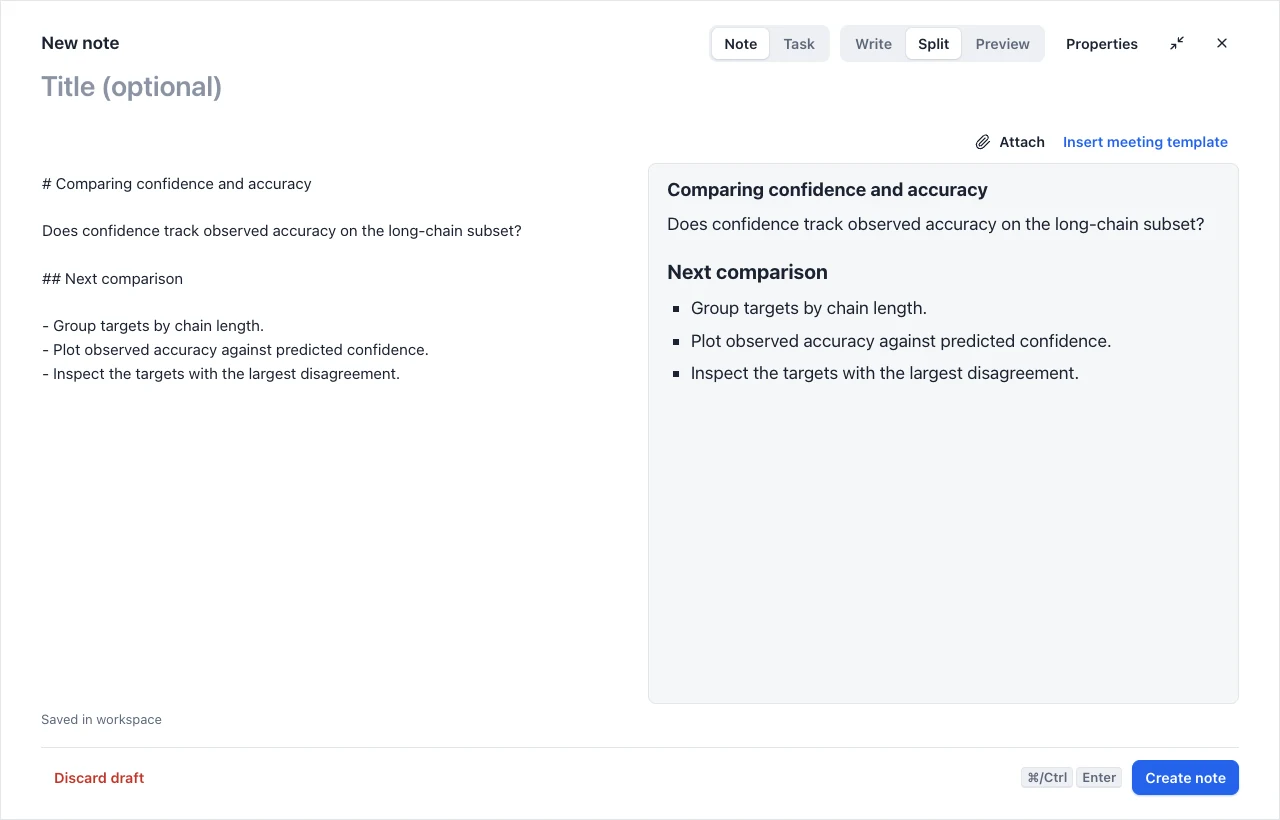
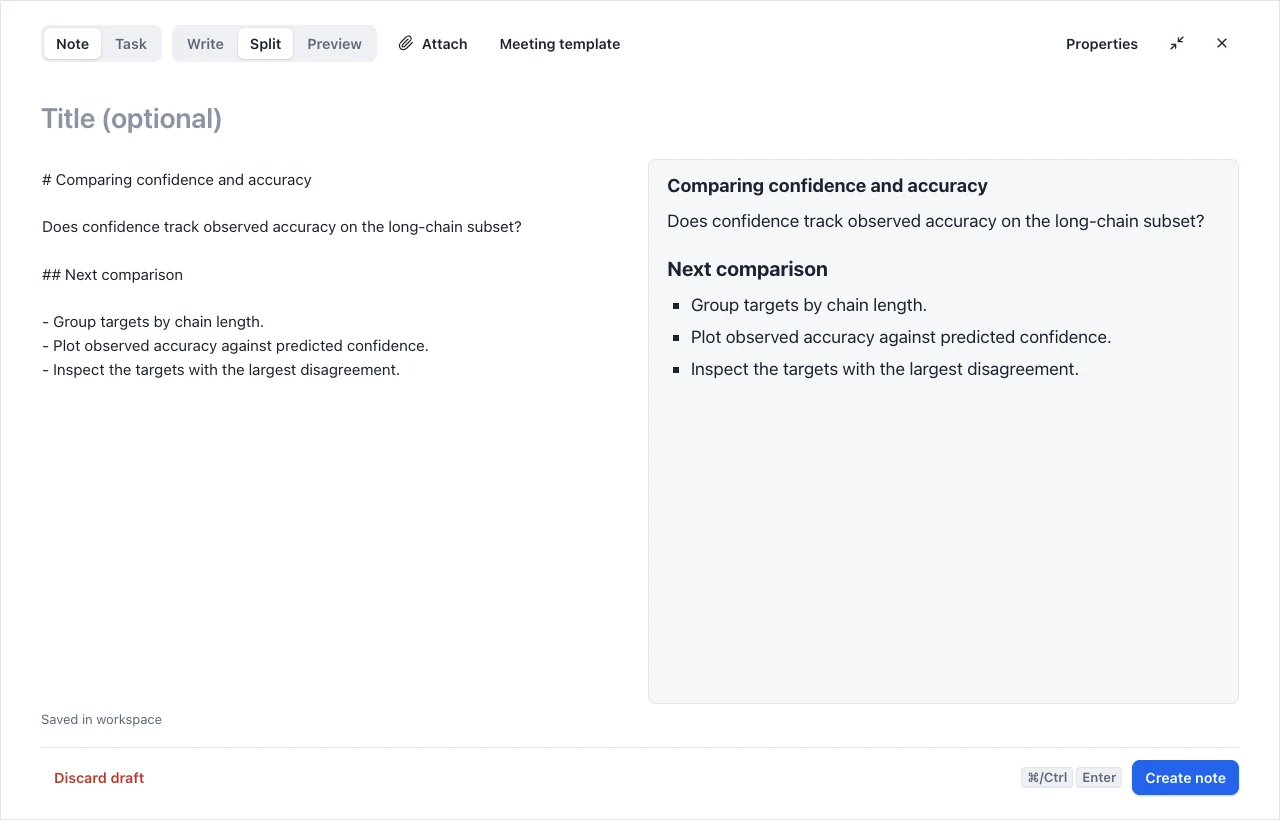
Give Zen mode one top bar and a full-width title
In the card editor and the capture composer, Zen now shows a single bar
across the screen: view toggle, Attach (and the meeting template for
notes) on the left, Properties, exit and close on the right. The title
sits below it across the whole writing column instead of sharing a row
with the card actions, and the reference line and the extra Attach row
are gone. Refresh the Zen documentation screenshot.

diff --git a/tools/web/templates/drawer.html b/tools/web/templates/drawer.html
@@ -19,6 +19,21 @@
                   <template x-if="!propertyEditor.form"><span x-text="selected?.title"></span></template>
                 </h2>
               </div>
+              <!-- Zen editing tools sit in the top bar beside the card actions; the title runs full width below. -->
+              <div class="mt-zen-bar-tools" x-show="contentEditor.open && contentEditor.zen">
+                <div class="mt-segmented mt-zen-view-toggle" role="group" aria-label="Zen editor view">
+                  <button class="mt-segment" type="button" :aria-pressed="contentEditor.zenView === 'write'" @click="contentEditor.setZenView(contentContext(), 'write')">Write</button>
+                  <button class="mt-segment" type="button" :aria-pressed="contentEditor.zenView === 'split'" @click="contentEditor.setZenView(contentContext(), 'split')">Split</button>
+                  <button class="mt-segment" type="button" :aria-pressed="contentEditor.zenView === 'preview'" @click="contentEditor.setZenView(contentContext(), 'preview')">Preview</button>
+                </div>
+                <button type="button" class="mt-button mt-button-quiet mt-button-compact mt-zen-attach"
+                        aria-label="Attach file" title="Attach file or paste image"
+                        :disabled="draftBusy || contentEditor.saving || attachmentUploading"
+                        @click="$refs.contentAttachInput && $refs.contentAttachInput.click()">
+                  <svg class="mt-icon" viewBox="0 0 24 24" aria-hidden="true" focusable="false"><path d="m21.44 11.05-9.19 9.19a6 6 0 0 1-8.49-8.49l9.19-9.19a4 4 0 0 1 5.66 5.66l-9.2 9.19a2 2 0 0 1-2.83-2.83l8.49-8.48"/></svg>
+                  <span>Attach</span>
+                </button>
+              </div>
               <div class="mt-detail-navigation">
                 <button type="button" class="mt-button mt-button-quiet mt-button-compact mt-zen-meta-toggle"
                         x-show="contentEditor.zen && propertyEditor.form"
@@ -46,6 +61,12 @@
                     <button type="button" class="mt-button mt-button-compact" @click="hideSelected()" :disabled="busy || draftBusy || !!contentEditor.open" :aria-busy="busy" x-text="selected?.hidden ? 'Show in lists' : 'Hide from lists'"></button>
                   </div>
                 </details>
+                <button type="button" class="mt-button mt-button-quiet mt-button-icon mt-zen-exit"
+                        x-show="contentEditor.open && contentEditor.zen"
+                        aria-label="Exit Zen mode" title="Exit Zen mode (Esc)"
+                        @click="contentEditor.toggleZen(contentContext())">
+                  <svg class="mt-icon" viewBox="0 0 24 24" aria-hidden="true" focusable="false"><path d="M4 14h6v6M20 10h-6V4M10 14l-7 7M14 10l7-7"/></svg>
+                </button>
                 <button class="mt-button mt-button-quiet mt-button-icon mt-close" type="button" aria-label="Close preview" @click="clearSelection()"><svg class="mt-icon" viewBox="0 0 24 24" aria-hidden="true" focusable="false"><path d="m6 6 12 12M6 18 18 6"/></svg></button>
               </div>
             </header>
@@ -98,11 +119,6 @@
                       <div class="mt-segmented" role="group" aria-label="Content editor mode" x-show="!contentEditor.zen">
                         <button class="mt-segment" type="button" :aria-pressed="contentEditor.tab === 'write'" @click="contentEditor.tab = 'write'">Write</button>
                         <button class="mt-segment" type="button" :aria-pressed="contentEditor.tab === 'preview'" @click="contentEditor.tab = 'preview'">Preview</button>
-                      </div>
-                      <div class="mt-segmented mt-zen-view-toggle" role="group" aria-label="Zen editor view" x-show="contentEditor.zen">
-                        <button class="mt-segment" type="button" :aria-pressed="contentEditor.zenView === 'write'" @click="contentEditor.setZenView(contentContext(), 'write')">Write</button>
-                        <button class="mt-segment" type="button" :aria-pressed="contentEditor.zenView === 'split'" @click="contentEditor.setZenView(contentContext(), 'split')">Split</button>
-                        <button class="mt-segment" type="button" :aria-pressed="contentEditor.zenView === 'preview'" @click="contentEditor.setZenView(contentContext(), 'preview')">Preview</button>
                       </div>
                       <div class="mt-editor-toolbar-actions">
                         <input type="file" multiple class="mt-attach-input" x-ref="contentAttachInput"

diff --git a/tools/web/styles/detail.css b/tools/web/styles/detail.css
@@ -803,13 +803,29 @@ textarea.mt-field.is-drag-over {
     max(clamp(16px, 4vw, 40px), env(safe-area-inset-left, 0px));
   overflow: hidden;
 }
+/* Zen header: one bar across the screen (editing tools left, card actions right),
+   then the title as the document heading across the full writing column. */
 .mt-detail.is-zen .mt-detail-header {
   position: static;
-  margin: 0 auto;
-  padding: 0 0 12px;
-  width: min(72ch, 100%);
+  flex-wrap: wrap;
+  align-items: center;
+  gap: 8px 12px;
+  width: 100%;
+  margin: 0;
+  padding: 0;
 }
-.mt-detail.is-zen:has(.mt-zen-workspace.is-split) .mt-detail-header,
+.mt-detail.is-zen .mt-zen-bar-tools { order: 1; display: flex; flex-wrap: wrap; align-items: center; gap: 6px; }
+.mt-detail.is-zen .mt-detail-navigation { order: 2; margin-inline-start: auto; }
+.mt-detail.is-zen .mt-detail-heading {
+  order: 3;
+  flex: 1 1 100%;
+  max-width: min(72ch, 100%);
+  margin: clamp(12px, 4vh, 40px) auto 14px;
+}
+.mt-detail.is-zen .mt-detail-identity,
+.mt-detail.is-zen .mt-content-editor-toolbar { display: none; }
+.mt-detail.is-zen .mt-detail-header h2 { font-size: clamp(1.45rem, 2.2vw, 1.85rem); }
+.mt-detail.is-zen:has(.mt-zen-workspace.is-split) .mt-detail-heading { max-width: min(140ch, 100%); }
 .mt-detail.is-zen:has(.mt-zen-workspace.is-split) .mt-detail-layout {
   width: min(140ch, 100%);
 }
@@ -870,22 +886,18 @@ textarea.mt-field.is-drag-over {
   outline: 2px solid var(--mt-focus);
   outline-offset: 4px;
 }
+/* Breakpoint: narrow (56rem, 896px). See styles/README.md. The property summary would
+   crowd the bar. */
+@media (max-width: 56rem) {
+  .mt-detail.is-zen .mt-zen-meta-badge { display: none; }
+}
 /* Breakpoint: phone (42rem, 672px). See styles/README.md. */
 @media (max-width: 42rem) {
-  .mt-detail.is-zen .mt-detail-header {
-    flex-wrap: wrap;
-    gap: 8px;
-  }
-  .mt-detail.is-zen .mt-detail-heading {
-    flex: 1 1 12rem;
-    min-inline-size: 0;
-  }
-  .mt-detail.is-zen .mt-detail-navigation {
-    margin-inline-start: auto;
-  }
+  .mt-detail.is-zen .mt-zen-attach > span { display: none; }
+  .mt-detail.is-zen .mt-detail-heading { margin-top: 8px; }
 }
 @media (pointer: coarse) {
-  .mt-detail.is-zen :is(.mt-detail-header, .mt-content-editor-toolbar) :is(button.mt-button, .mt-segmented .mt-segment, .mt-menu-trigger) {
+  .mt-detail.is-zen .mt-detail-header :is(button.mt-button, .mt-segmented .mt-segment, .mt-menu-trigger) {
     min-block-size: 44px;
     min-inline-size: 44px;
   }

diff --git a/tools/web/styles/composer.css b/tools/web/styles/composer.css
@@ -321,17 +321,30 @@ li.mt-mention-option.is-active .mt-mention-meta {
     max(clamp(14px, 2.5vw, 24px), env(safe-area-inset-bottom, 0px))
     max(clamp(16px, 4vw, 40px), env(safe-area-inset-left, 0px));
 }
-.mt-composer.is-zen .mt-composer-header,
 .mt-composer.is-zen .mt-composer-content,
 .mt-composer.is-zen .mt-composer-footer {
   width: min(72ch, 100%);
   margin-inline: auto;
 }
+/* Zen header: one bar across the screen. Kind, view and Attach sit on the left;
+   Properties, exit and close on the right. The dialog heading stays for screen readers. */
+.mt-composer.is-zen .mt-composer-header { width: 100%; gap: 6px 10px; }
+.mt-composer.is-zen .mt-composer-header > div:first-child {
+  position: absolute;
+  width: 1px;
+  height: 1px;
+  overflow: hidden;
+  clip: rect(0 0 0 0);
+  white-space: nowrap;
+}
+.mt-composer.is-zen .mt-composer-header .mt-zen-meta-toggle { margin-inline-start: auto; }
+/* Attach and the meeting template live in the bar, so the row above the text is dropped. */
+.mt-composer.is-zen .mt-composer-body-label-row { display: none; }
+.mt-composer.is-zen .mt-composer-title-field { margin-top: clamp(12px, 4vh, 40px); }
 .mt-composer.is-zen .mt-composer-content {
   padding-right: 0;
   margin-right: auto;
 }
-.mt-composer.is-zen:has(.mt-zen-workspace.is-split) .mt-composer-header,
 .mt-composer.is-zen:has(.mt-zen-workspace.is-split) .mt-composer-content,
 .mt-composer.is-zen:has(.mt-zen-workspace.is-split) .mt-composer-footer {
   width: min(140ch, 100%);
@@ -369,9 +382,6 @@ li.mt-mention-option.is-active .mt-mention-meta {
   border-radius: var(--mt-radius-lg);
   background: var(--mt-surface-subdued);
 }
-.mt-composer.is-zen .mt-composer-template {
-  margin-left: -10px;
-}
 /* Breakpoint: narrow (56rem, 896px). See styles/README.md. */
 @media (max-width: 56rem) {
   .mt-zen-workspace.is-zen.is-split {
@@ -385,8 +395,9 @@ li.mt-mention-option.is-active .mt-mention-meta {
     flex-wrap: wrap;
     gap: 8px;
   }
-  .mt-composer.is-zen .mt-composer-header > div:first-child { min-inline-size: 0; }
-  .mt-composer.is-zen .mt-zen-meta-badge { display: none; }
+  .mt-composer.is-zen .mt-zen-meta-badge,
+  .mt-composer.is-zen .mt-zen-attach > span { display: none; }
+  .mt-composer.is-zen .mt-composer-title-field { margin-top: 8px; }
   .mt-zen-workspace.is-zen.is-split {
     flex: 1 1 auto;
     grid-template-rows: minmax(10rem, 1fr) minmax(10rem, 1fr);

diff --git a/tools/web/templates/capture_composer.html b/tools/web/templates/capture_composer.html
@@ -23,6 +23,19 @@
                 <button type="button" class="mt-segment" :aria-pressed="captureComposer.zenView === 'split'" @click="captureComposer.setZenView(captureContext(), 'split')">Split</button>
                 <button type="button" class="mt-segment" :aria-pressed="captureComposer.zenView === 'preview'" @click="captureComposer.setZenView(captureContext(), 'preview')">Preview</button>
               </div>
+              <button type="button" class="mt-button mt-button-quiet mt-button-compact mt-zen-attach"
+                      x-show="captureComposer.zen && captureComposer.draft"
+                      aria-label="Attach file" title="Attach file or paste image"
+                      :disabled="captureComposer.saving || attachmentUploading"
+                      @click="$refs.composerAttachInput && $refs.composerAttachInput.click()">
+                <svg class="mt-icon" viewBox="0 0 24 24" aria-hidden="true" focusable="false"><path d="m21.44 11.05-9.19 9.19a6 6 0 0 1-8.49-8.49l9.19-9.19a4 4 0 0 1 5.66 5.66l-9.2 9.19a2 2 0 0 1-2.83-2.83l8.49-8.48"/></svg>
+                <span>Attach</span>
+              </button>
+              <button type="button" class="mt-button mt-button-quiet mt-button-compact mt-zen-template"
+                      x-show="captureComposer.zen && captureComposer.draft?.kind === 'note'"
+                      title="Insert meeting template"
+                      :disabled="captureComposer.saving"
+                      @click="captureComposer.applyMeetingTemplate(captureContext())">Meeting template</button>
               <button type="button" class="mt-button mt-button-quiet mt-button-compact mt-zen-meta-toggle"
                       x-show="captureComposer.zen && captureComposer.draft"
                       :aria-expanded="captureComposer.zenMetaOpen"
